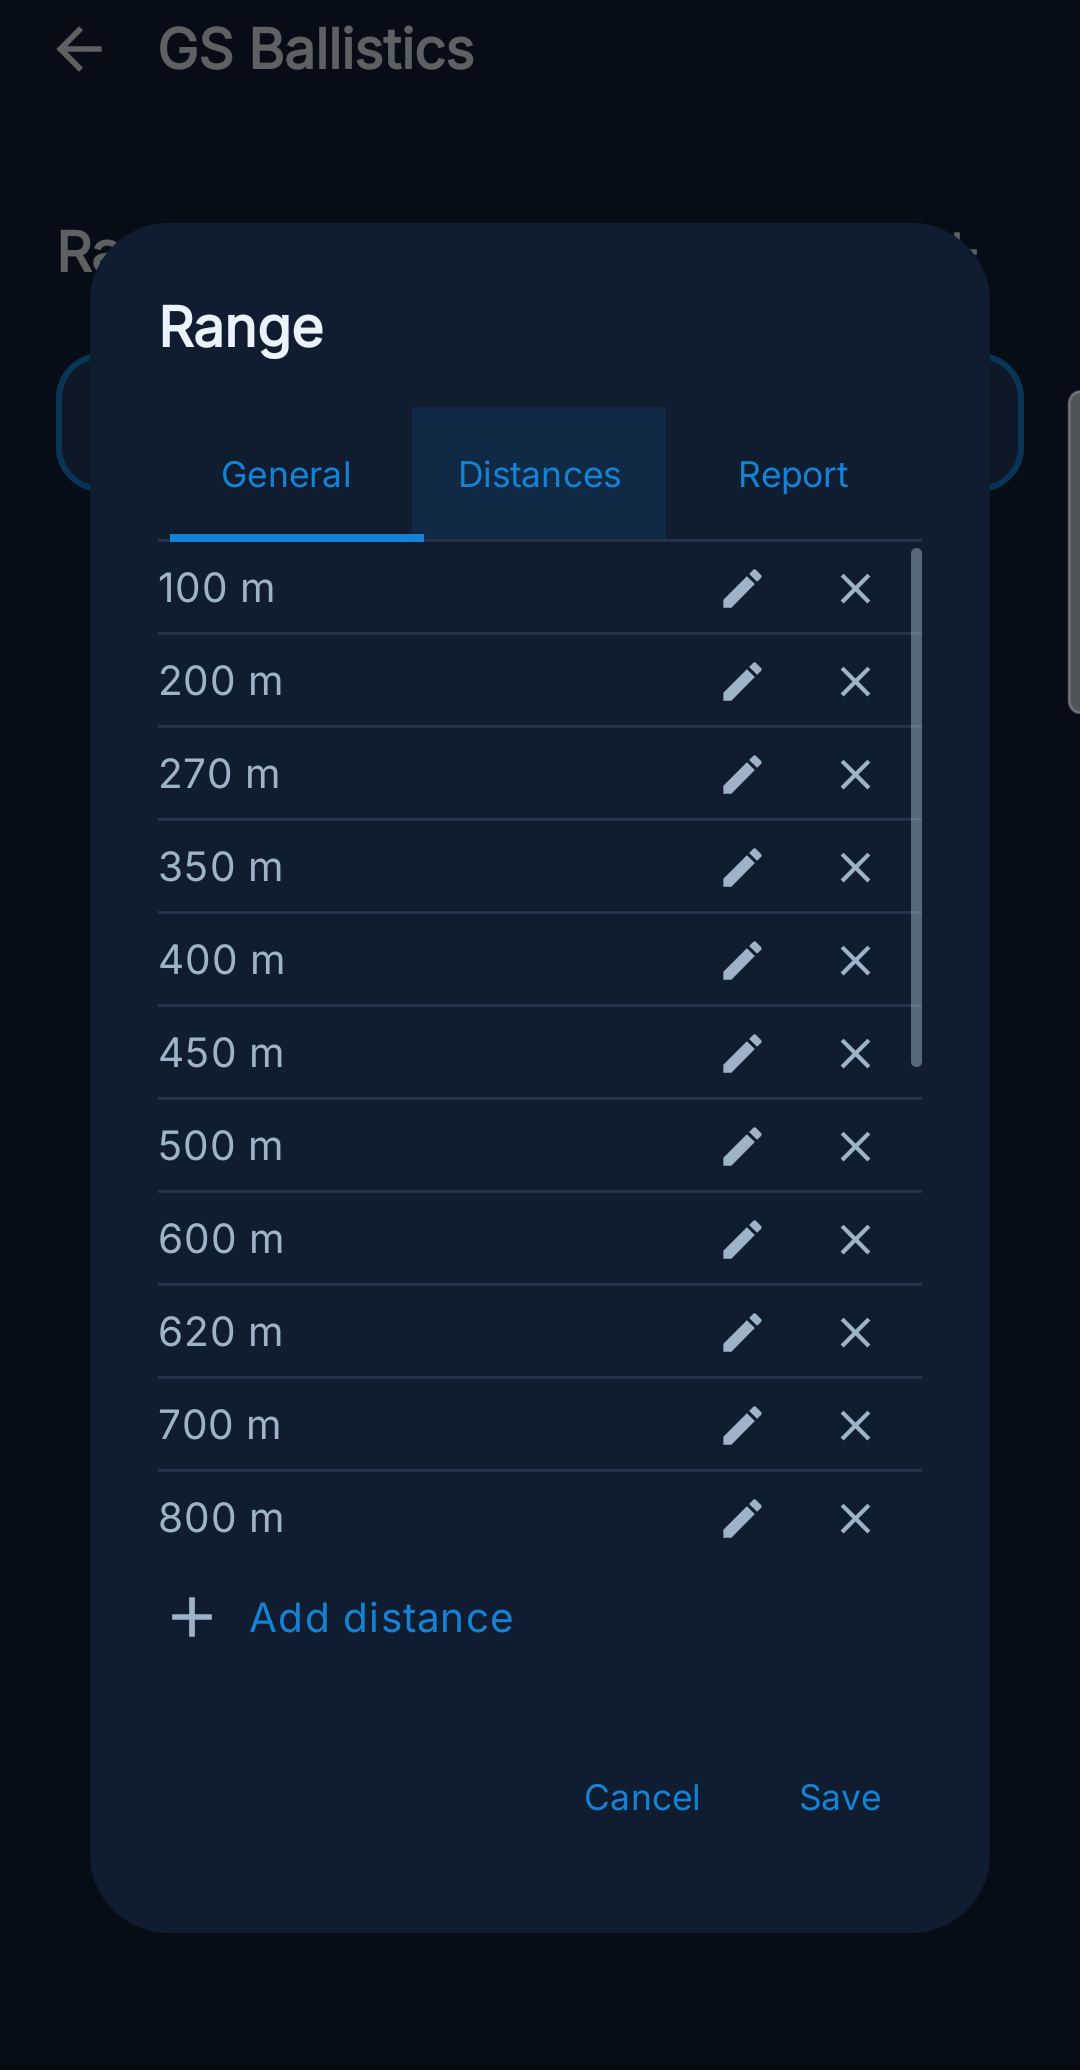
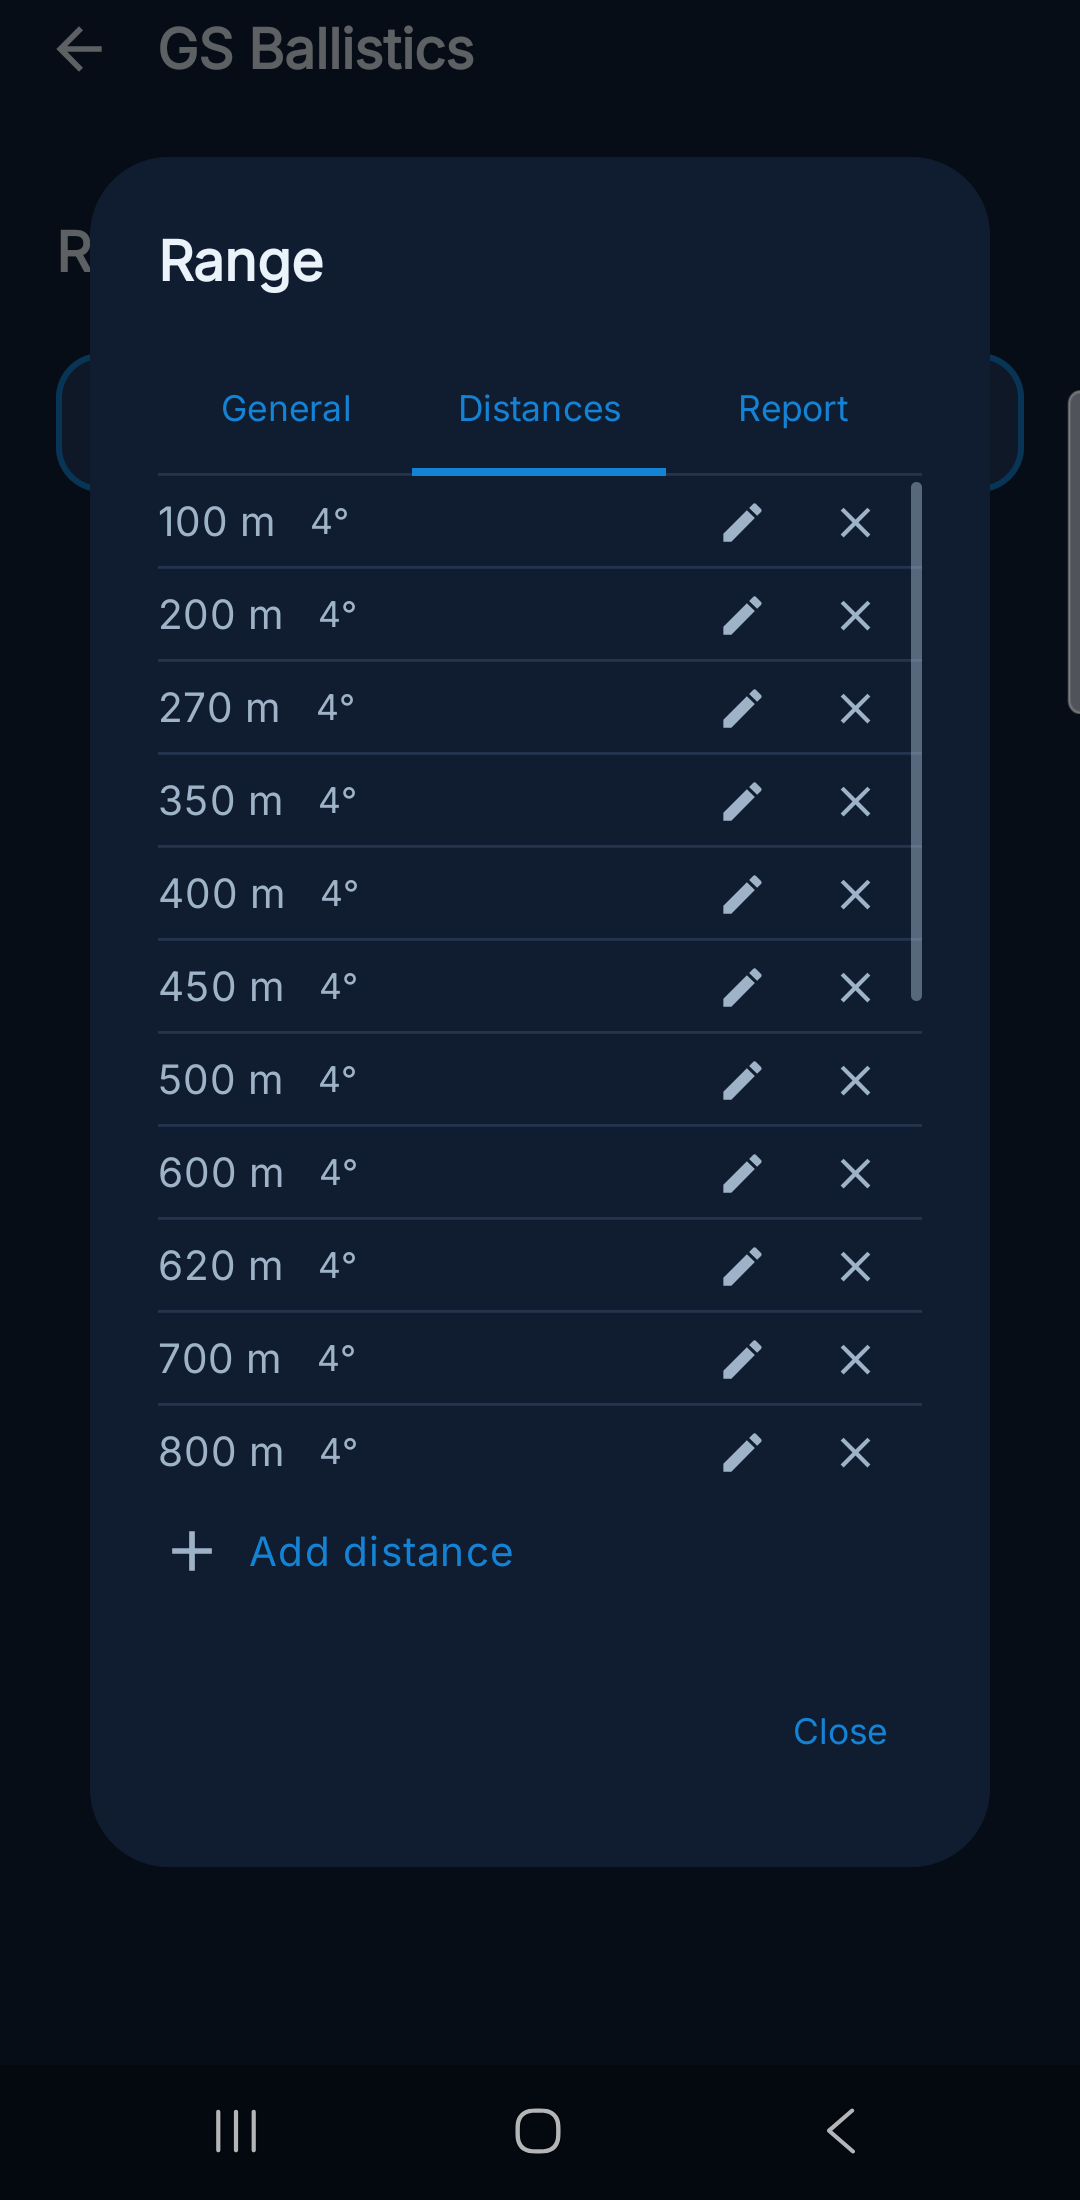
Guide: document the per-target shooting angle
New section 1.5 (IT+EN) explains that slope angle is now set per
bersaglio instead of once for the whole range, and how the Home
gauge's angle is interpolated between saved targets. Refreshed Fig. 2
to show the "Distanze" tab's new angle column and the dialog's
live-saving "Close" button.

diff --git a/it/gs-ballistics-guide.html b/it/gs-ballistics-guide.html
@@ -192,6 +192,12 @@
 					<div class="fig-caption"><b>Fig. 2</b> — Scheda "Distanze" del poligono</div>
 				</div>
 			</div>
+
+			<div class="tech-sub">
+				<h4 class="tech-sub-title"><span class="n">1.5</span>Impostare l'angolo di tiro</h4>
+				<p>Ogni bersaglio ha il proprio angolo di tiro (in salita o in discesa), non il poligono nel suo insieme: due bersagli sullo stesso campo possono benissimo trovarsi a inclinazioni diverse, ed è per questo che l'angolo si imposta insieme alla distanza, bersaglio per bersaglio, sempre dalla scheda "Distanze". Un tiro in salita o in discesa richiede meno alzo di uno in piano alla stessa distanza — è la componente di gravità lungo la linea di mira, non la distanza in sé, a determinare la caduta — e la differenza cresce sia con l'angolo sia con la distanza.</p>
+				<p>Quando la ghiera della Home viene impostata su una distanza che non corrisponde esattamente a un bersaglio salvato, l'angolo usato nel calcolo viene interpolato tra i due bersagli più vicini; oltre l'ultimo bersaglio salvato, resta fisso su quello più vicino invece di essere estrapolato.</p>
+			</div>
 		</section>
 
 		<!-- Capitolo 2 -->

diff --git a/en/gs-ballistics-guide.html b/en/gs-ballistics-guide.html
@@ -192,6 +192,12 @@
 					<div class="fig-caption"><b>Fig. 2</b> — A range's "Distances" tab</div>
 				</div>
 			</div>
+
+			<div class="tech-sub">
+				<h4 class="tech-sub-title"><span class="n">1.5</span>Set the shooting angle</h4>
+				<p>Each target has its own uphill or downhill shooting angle, not the range as a whole: two targets on the same field can easily sit at different inclines, which is why the angle is set together with the distance, target by target, from the same "Distances" tab. An uphill or downhill shot needs less elevation than a level one at the same distance — it's the component of gravity along the line of sight, not the distance itself, that sets the drop — and the difference grows with both the angle and the distance.</p>
+				<p>When the Home dial is set to a distance that doesn't exactly match a saved target, the angle used in the calculation is interpolated between the two nearest saved targets; past the farthest saved target, it stays fixed at that one's angle instead of being extrapolated further.</p>
+			</div>
 		</section>
 
 		<!-- Chapter 2 -->
